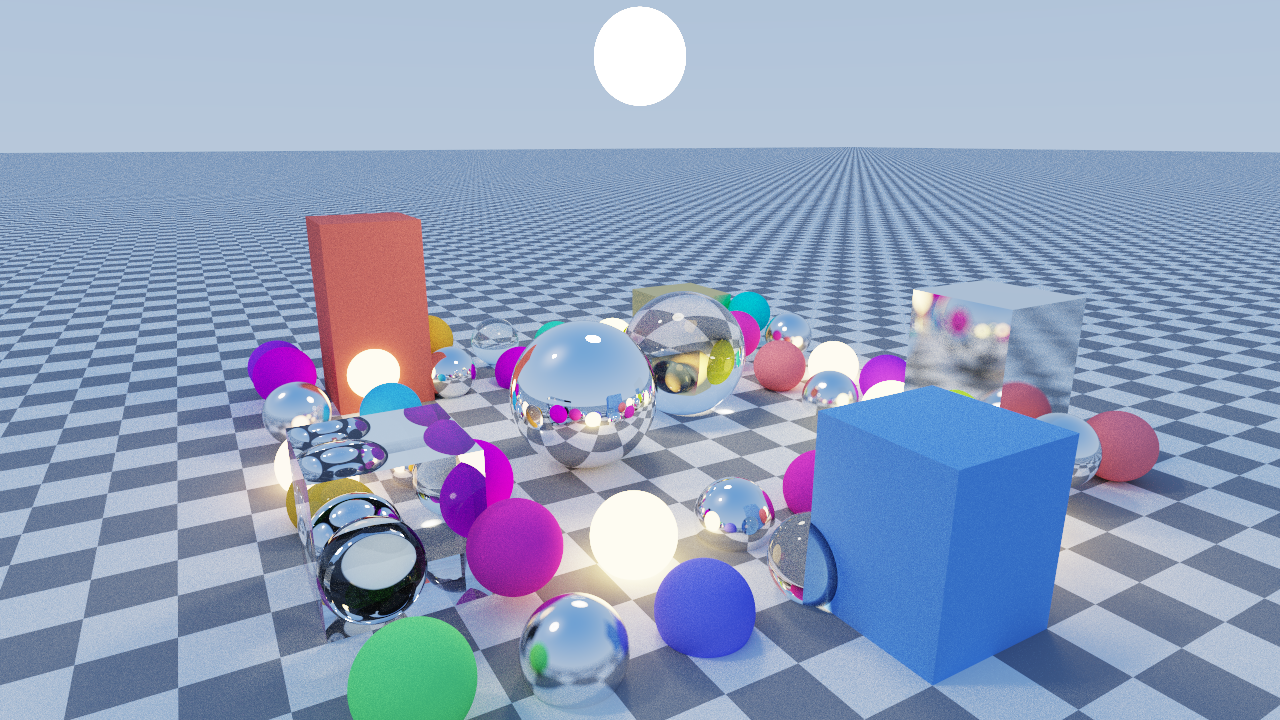
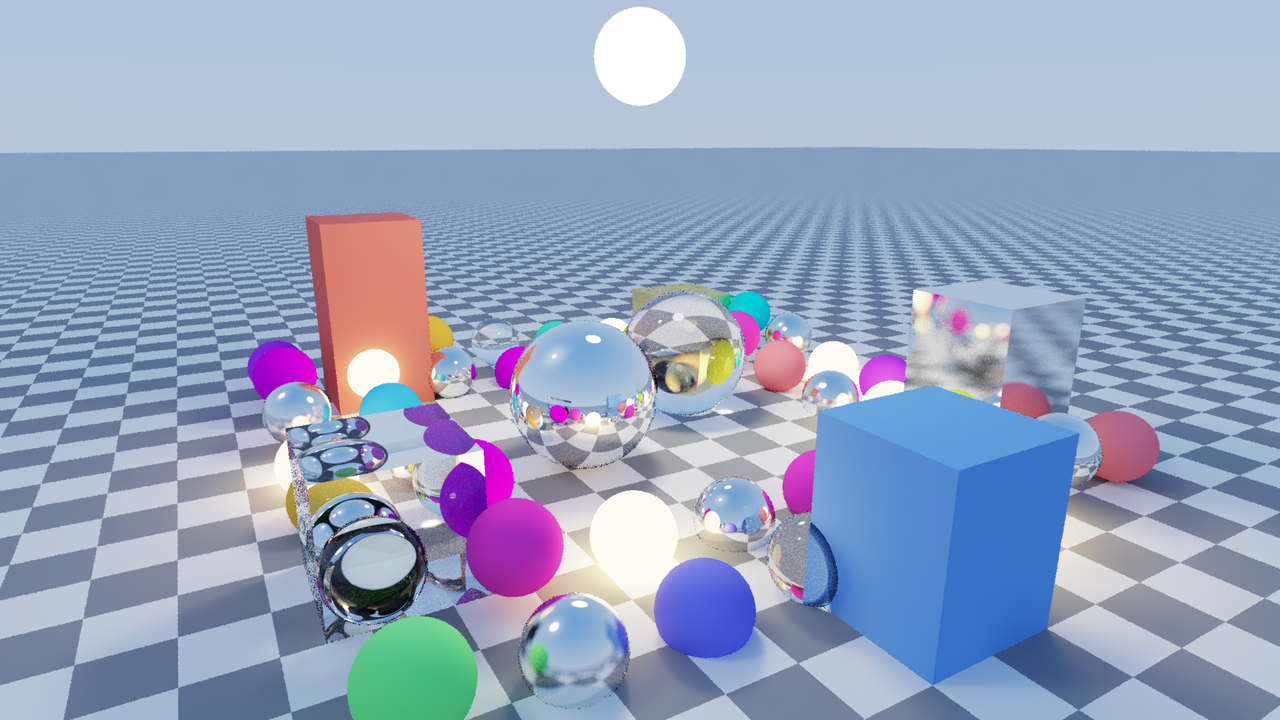
Update README for the path tracer and add screenshots
Mark ray tracing as an Nt-only feature, document DLSS Ray Reconstruction,
refresh the path tracer screenshot, add a Mochimaru screenshot and remove
the stray pathtracer-1.png.

diff --git a/README.md b/README.md
@@ -58,6 +58,8 @@ Without a display, run the graphical examples with `-platform offscreen`.
 
 ## Mochimaru no Daibouken
 
+<p align="center"><img src="platformer/mochimaru.png" alt="Mochimaru no Daibouken: the bunny in 1-2 Bamboo Grove, with a pipe, coins, bricks and a few enemies" width="640"></p>
+
 `platformer/` is a small, cute platform game. Run `build/mochimaru`, or `build/mochimaru song.mid` (several
 files, or a directory of them, work too) to play with your own MIDI soundtrack. The sound effects and the
 soundtrack come from the FM synthesizer of Nt FM; the controls come from Nt Gamepad.
@@ -79,6 +81,7 @@ The pixel art is text, in `platformer/sprites.h`; `sprite_sheet` draws all of it
 ## Path tracer
 
 <p align="center"><img src="raytracing/pathtracer.png" alt="The path tracer: spheres of glass, metal and color on a checkered floor" width="640"></p>
+<p align="center"><em>Real-time ray tracing with <code>pathtracer</code>: an Nt-only feature, with no Qt 6 counterpart in <code>qt/</code>.</em></p>
 
 `raytracing/` renders a scene of spheres and boxes with a progressive path tracer that runs on the ray tracing
 pipeline of Vulkan (`VK_KHR_ray_tracing_pipeline`) in a `QVulkanWindow`, built the way an RTX game pipeline is:
@@ -90,7 +93,8 @@ count, so that the picture is smooth while everything moves and converges exactl
 glass and lights are not filtered, so they keep some grain in motion. Run `build/pathtracer`, or `build/pathtracer --fly` to let the camera
 circle the scene; `pathtracer --devices` lists the GPUs and `--device N` picks one (by default the first discrete GPU
 with ray tracing), `--spp N` fixes the paths per pixel, `--history N` the frames a moving pixel remembers (48 by default),
-`--candidates N` the light candidates per hit, `--no-denoise` skips the filter, `--scale F` the rendered size over
+`--candidates N` the light candidates per hit, `--no-denoise` skips the filter, `--dlss` uses DLSS Ray Reconstruction
+(see below), `--scale F` the rendered size over
 the window's (by default the rendering stays near 1080p and is upscaled to the window), `--vsync` holds the frames to
 the display's rate, `--still`
 starts with the scene at rest so the image converges, `--screenshot out.png` saves the picture when `--frames N` are
@@ -108,11 +112,16 @@ Beyond the core extensions it shows what an RTX GPU adds:
   the triangle it hit from the acceleration structure, so the meshes bind no vertex buffers.
 - **Procedural geometry**: the spheres are analytic, intersected by an intersection shader, and perfectly round at any
   distance; the boxes and the floor are triangles.
+- **DLSS Ray Reconstruction** (opt-in, NVIDIA RTX): one path per pixel, with its albedo, normal, roughness, depth and
+  motion vector guides and a sub-pixel jitter, is denoised and upscaled to the window by NVIDIA's DLSS instead of by
+  the history and the filter. The DLSS SDK is proprietary and not part of this repository: clone
+  [NVIDIA/DLSS](https://github.com/NVIDIA/DLSS) (its licence applies) and configure with `-DDLSS_SDK=<that checkout>`.
+  Then `--dlss`, or the N key, turns it on and off.
 - **A top level rebuilt every frame** while the scene moves, and shadow rays nested in the hit shaders for the
   direct light.
 
 The window title shows the GPU, the resolution, the frame rate, the paths per pixel and per second, the bounces, the
-reordering state, and the sample count once the image converges.
+reordering state, whether the denoiser or DLSS Ray Reconstruction is on, and the sample count once the image converges.
 
 A fly-through video is rendered offline, one frame at a time, with `pathtracer --record out --seconds 30`: the scene
 and the camera step by the video's frame time, each frame converges over 128 paths per pixel (`--passes` times
@@ -127,6 +136,7 @@ and the camera step by the video's frame time, each frame converges over 128 pat
 | Fly around            | F, or start with `--fly`     |
 | Reordering on/off     | R                            |
 | Denoiser on/off       | D                            |
+| DLSS Ray Reconstruction on/off | N (when built with the DLSS SDK) |
 | More / fewer bounces  | + / -                        |
 | Screenshot (PNG)      | S                            |
 | Quit                  | Q or Esc                     |
